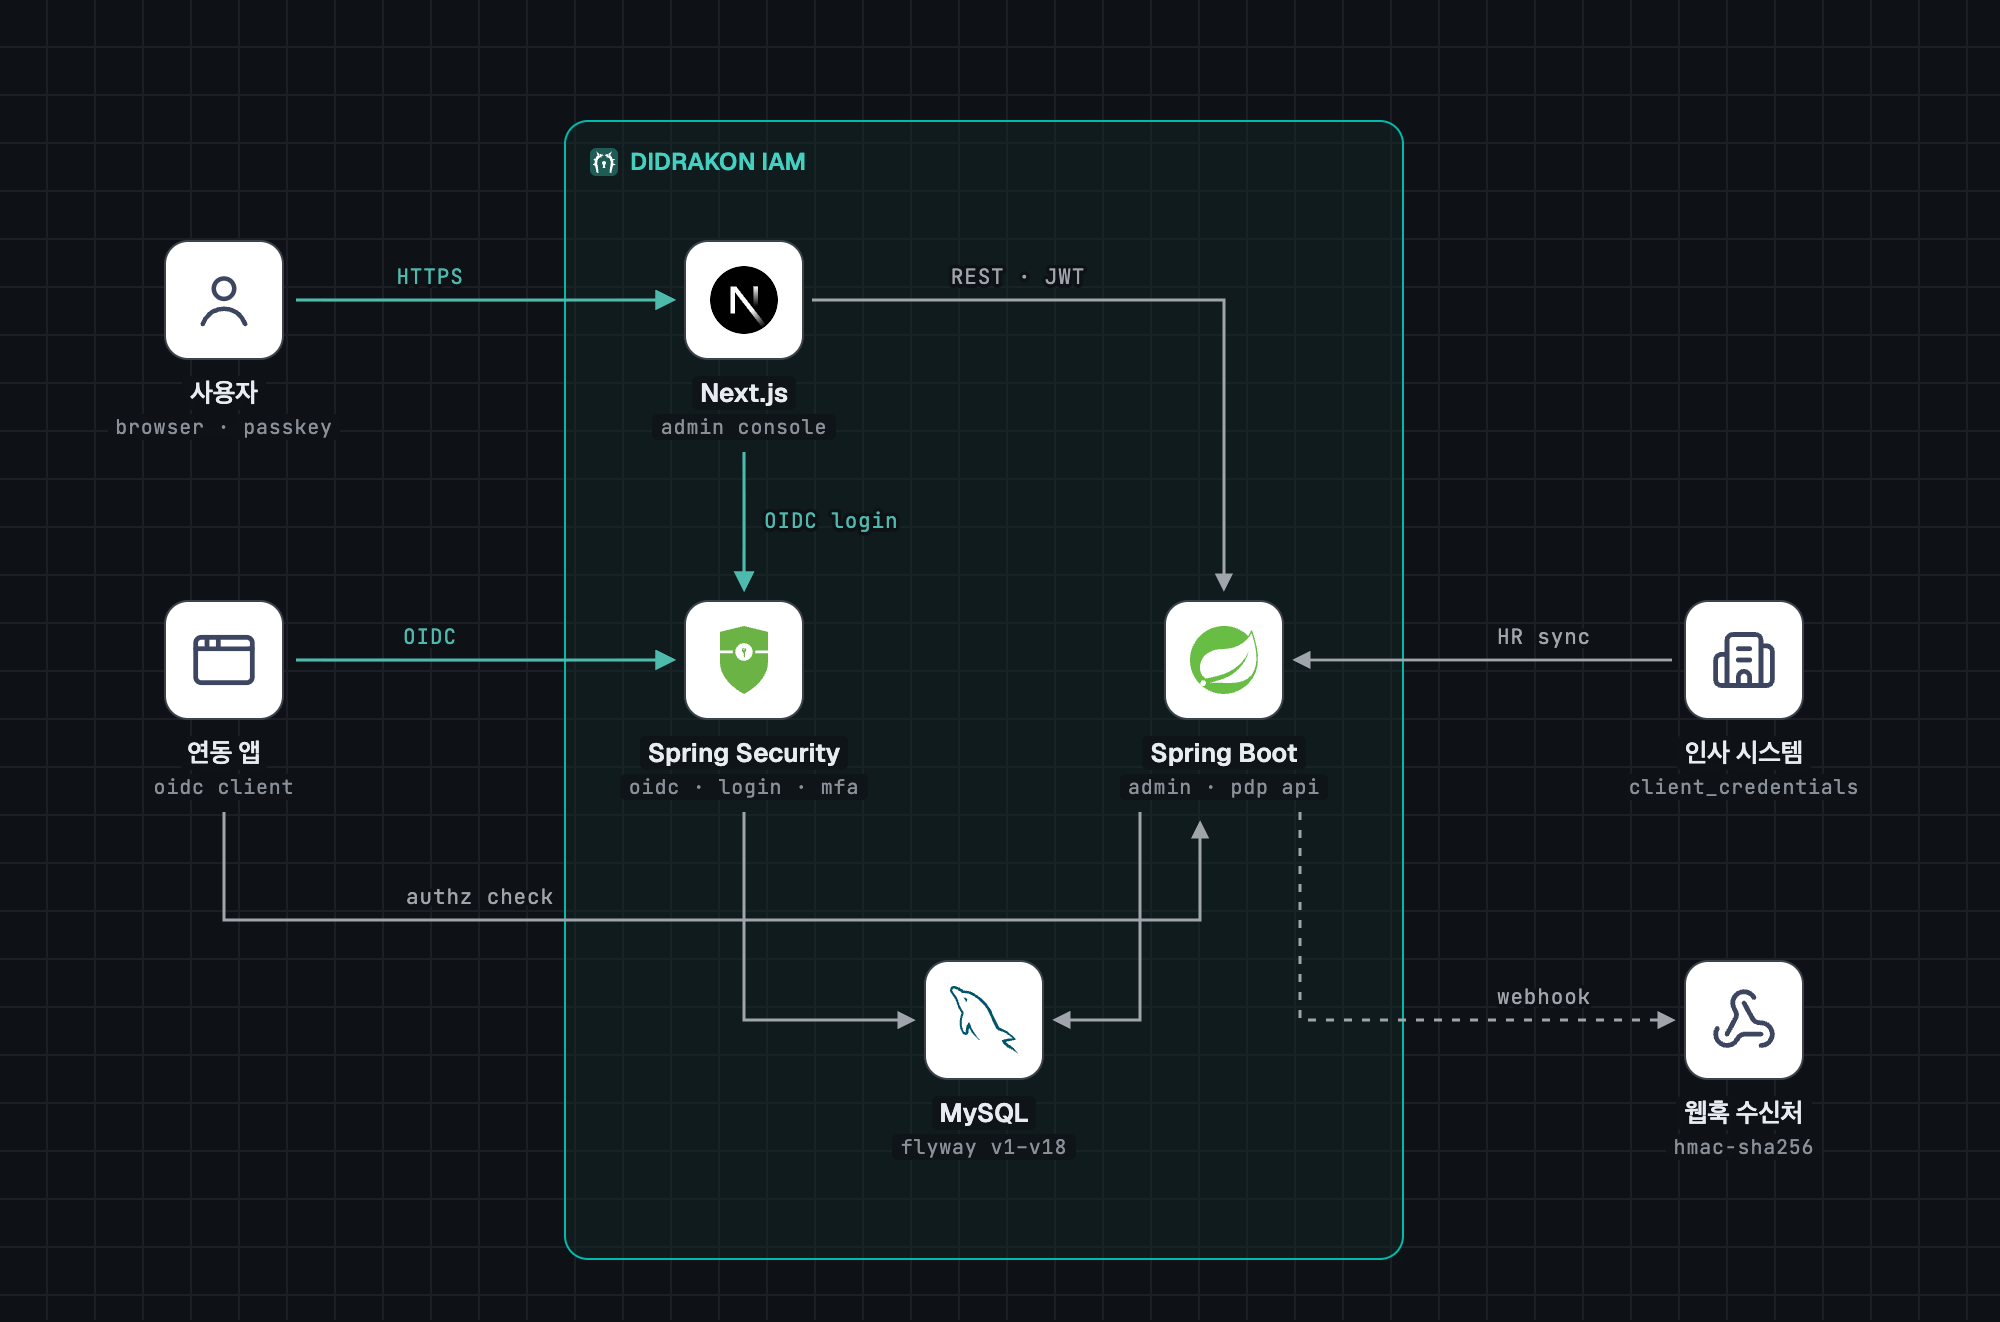
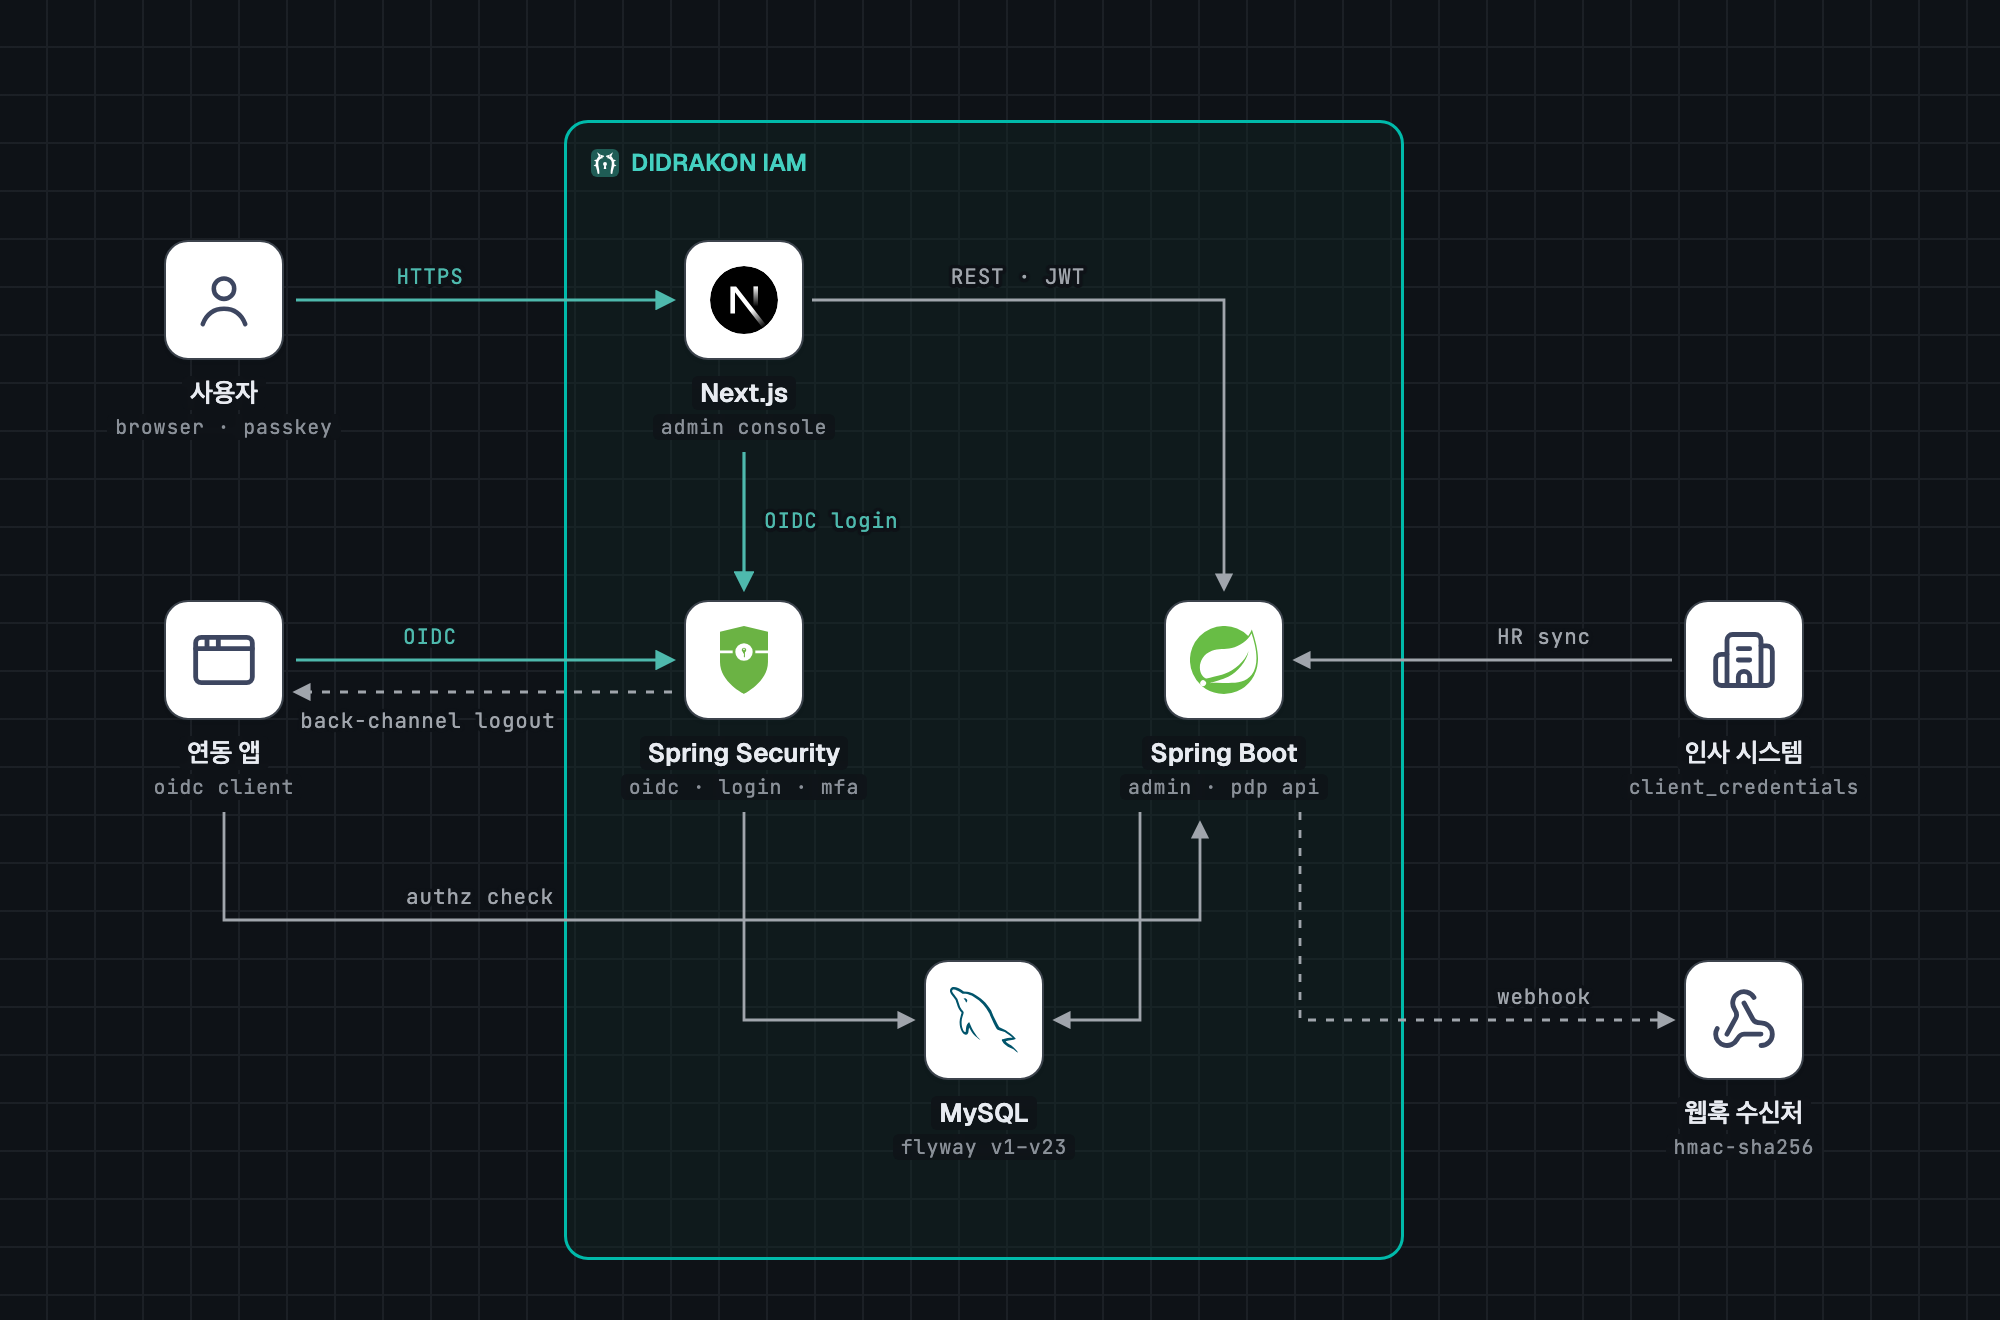
docs: 시스템 구조도 최신화 — 마이그레이션 표시 v1–v23, 연동 앱으로 가는 back-channel 로그아웃 화살표 추가

diff --git a/docs/architecture.html b/docs/architecture.html
@@ -196,6 +196,8 @@ path.aws { stroke: var(--color-ink); stroke-width:1.6; fill:none; }
       <text class="el" x="509" y="142" text-anchor="middle">REST · JWT</text>
       <path class="e" d="M148 330 H336" marker-end="url(#ar)"/>
       <text class="el a" x="215" y="322" text-anchor="middle">OIDC</text>
+      <path class="n dash" d="M336 346 H148" marker-end="url(#ar)"/>
+      <text class="el" x="214" y="364" text-anchor="middle">back-channel logout</text>
       <path class="n" d="M112 406 V460 H600 V412" marker-end="url(#ar)"/>
       <text class="el" x="240" y="452" text-anchor="middle">authz check</text>
       <path class="n" d="M836 330 H648" marker-end="url(#ar)"/>
@@ -227,7 +229,7 @@ path.aws { stroke: var(--color-ink); stroke-width:1.6; fill:none; }
     </div>
     <div class="node" style="left:426px;top:480px">
[1 lines of base64/hex data omitted]
-      <div class="name"><span>MySQL</span></div><div class="role"><span>flyway v1–v18</span></div>
+      <div class="name"><span>MySQL</span></div><div class="role"><span>flyway v1–v23</span></div>
     </div>
     <div class="node" style="left:806px;top:300px">
[1 lines of base64/hex data omitted]
